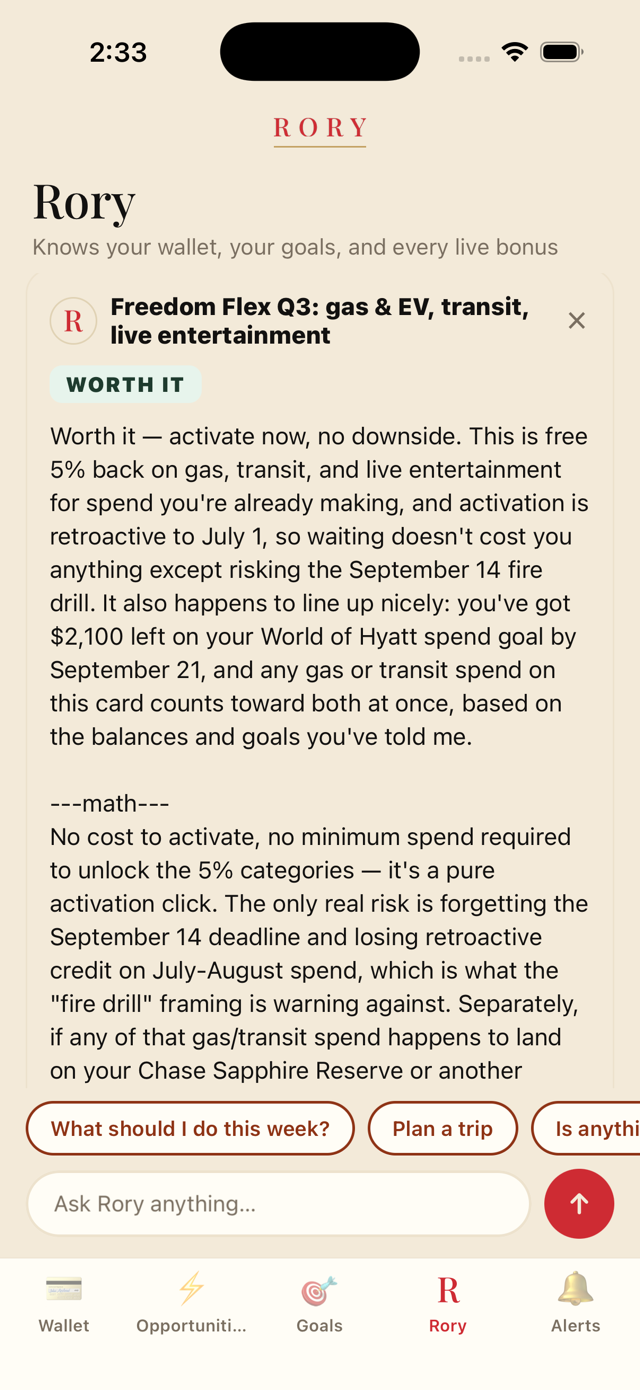
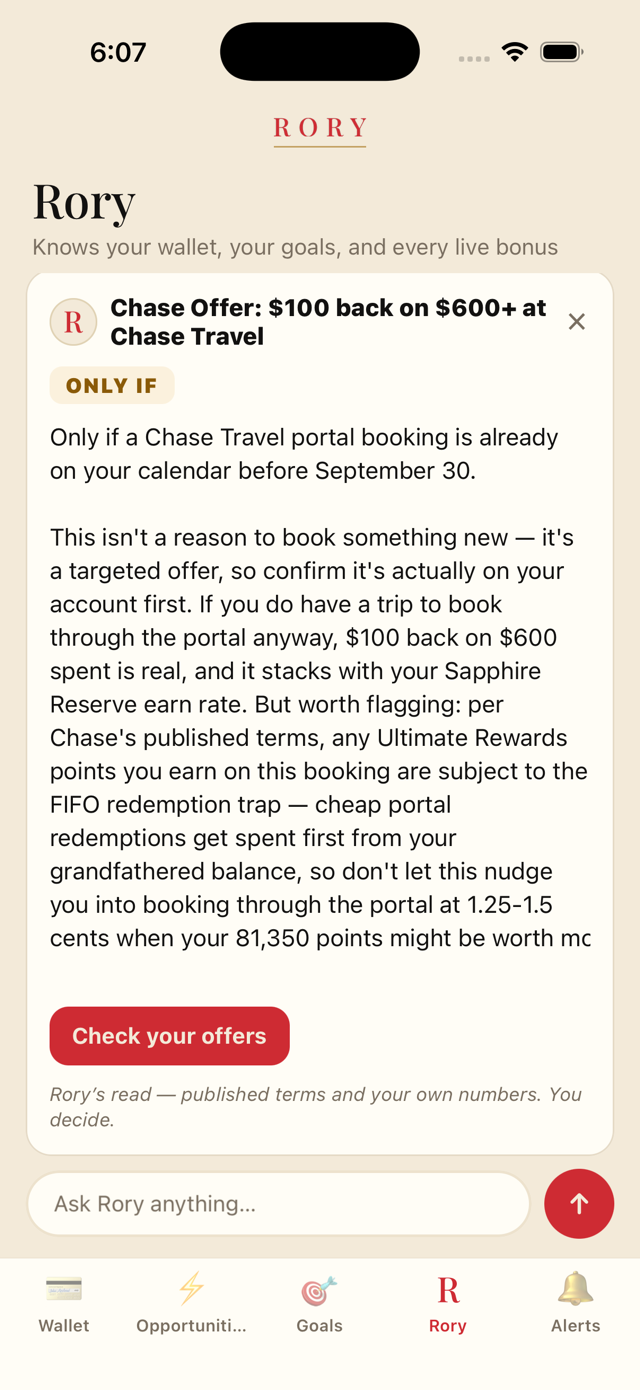
Proof strip: corrected Rory verdict shot (Only If, no ---math--- leak)
Replace shot-rory.png with the fixed verdict frame — a clean Only If read
on a Chase Travel offer on the shared white card surface (the prior shot
had the ---math--- delimiter leak and the blend-in background). Update
its alt + caption to match the Only If verdict.

diff --git a/index.html b/index.html
@@ -89,8 +89,8 @@
           <figcaption><b>A welcome offer, tracked in tranches.</b> Spend paced to the bonus, not the ad.</figcaption>
         </figure></div>
         <div class="shot"><figure>
-          <div class="phone"><img src="assets/shot-rory.png" alt="Rory chat — a Worth It verdict on a Freedom Flex 5% quarter, grounded in the user's own goals" loading="lazy" width="640" height="1390"></div>
-          <figcaption><b>Rory's read on any offer.</b> A plain Worth&nbsp;It — or Skip — grounded in your numbers.</figcaption>
+          <div class="phone"><img src="assets/shot-rory.png" alt="Rory chat — an Only If verdict on a Chase Travel offer, grounded in the user's own points and flagging Chase's FIFO redemption trap" loading="lazy" width="640" height="1390"></div>
+          <figcaption><b>Rory's read on any offer.</b> A plain Worth&nbsp;It, Skip, or Only&nbsp;If — grounded in your numbers.</figcaption>
         </figure></div>
       </div>
 
